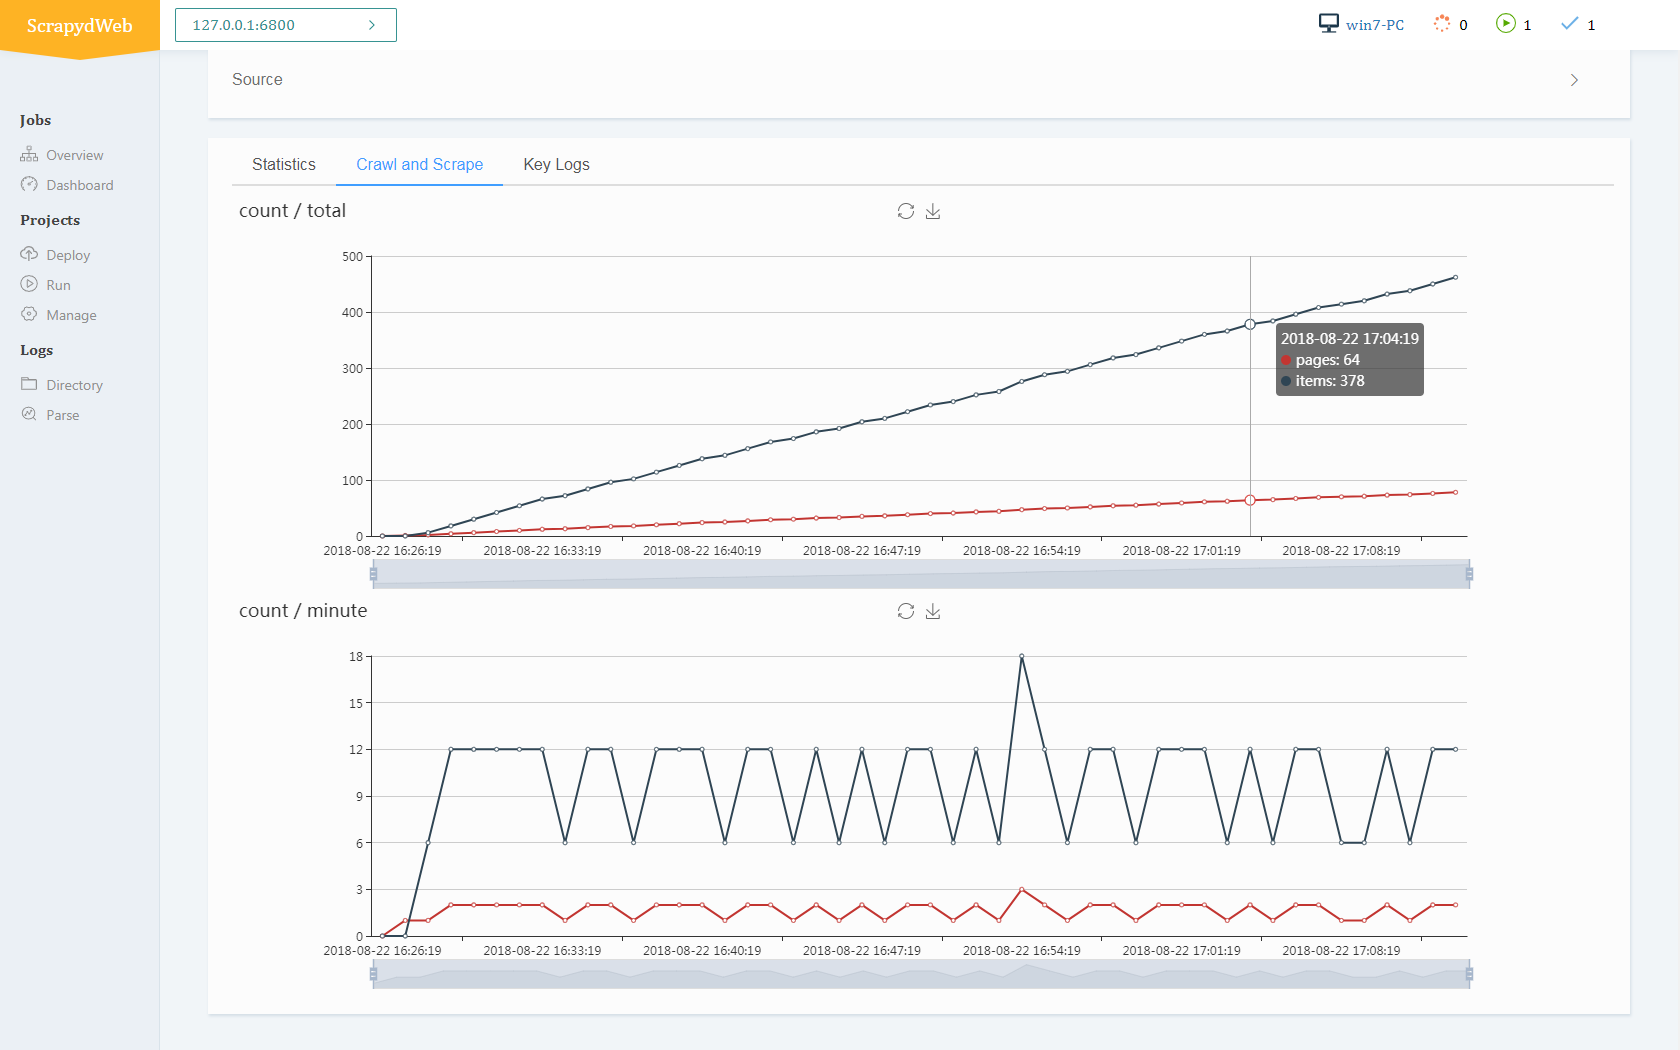
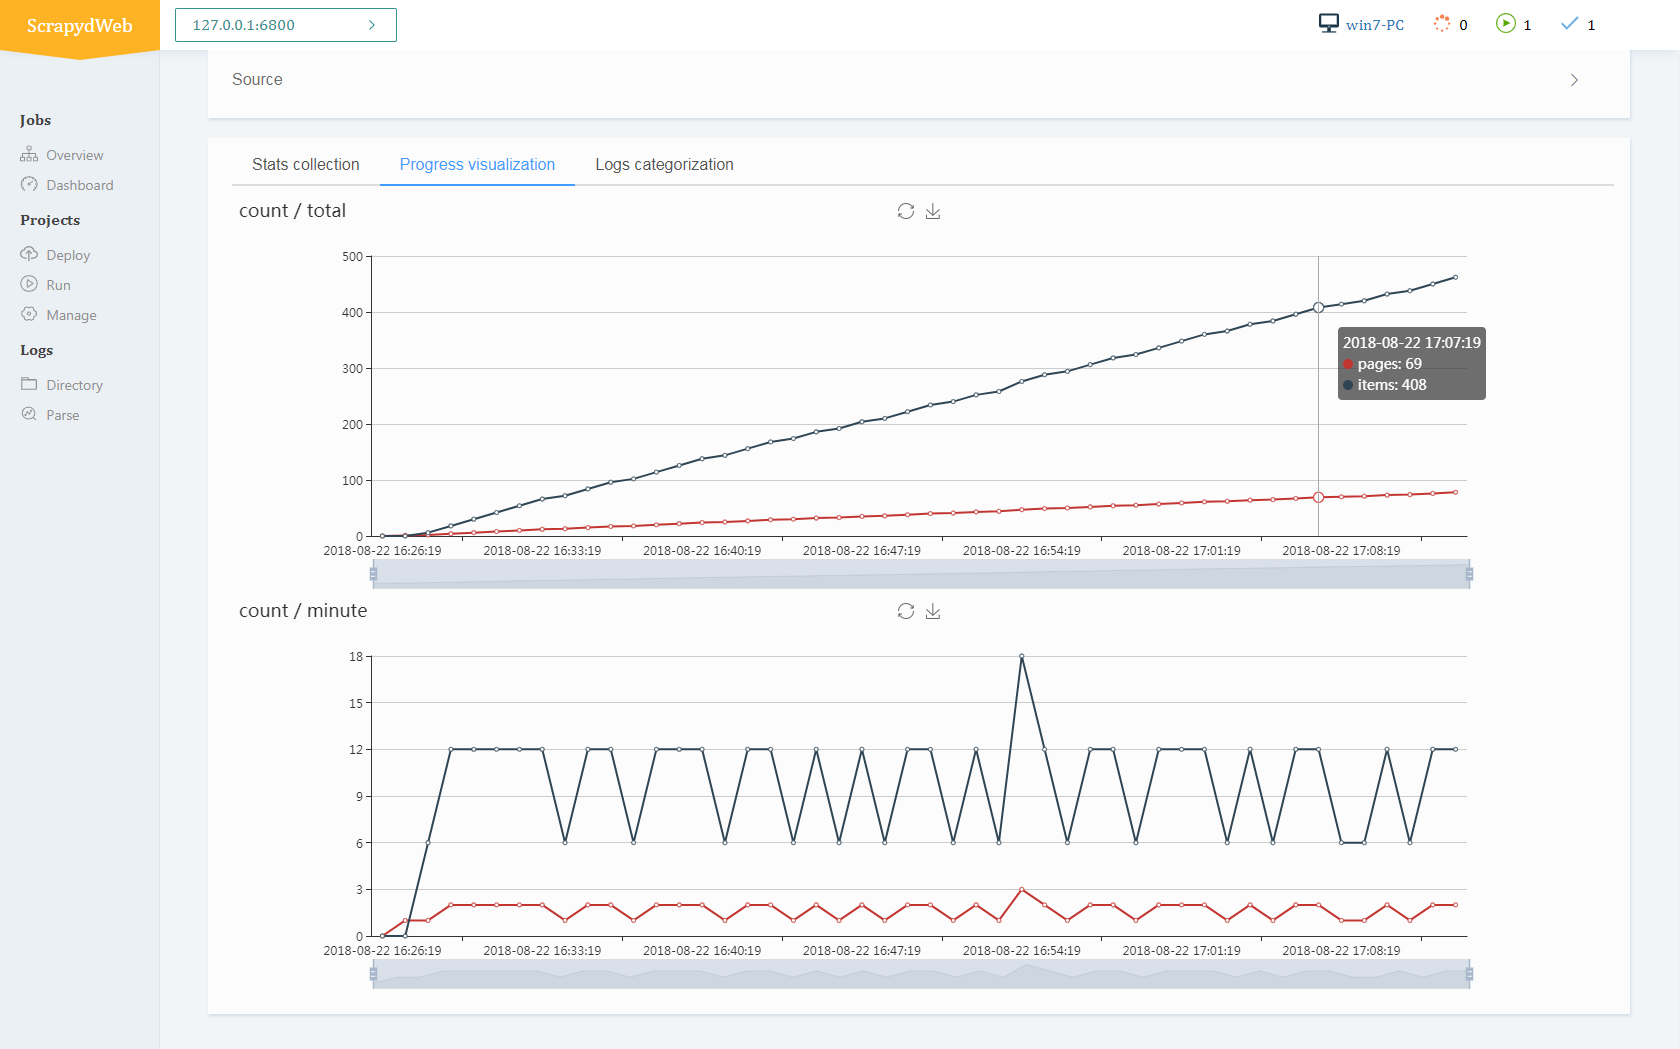
v0.9.3: Add __version__.py and update setup.py

diff --git a/scrapydweb/templates/scrapydweb/overview.html b/scrapydweb/templates/scrapydweb/overview.html
@@ -25,7 +25,7 @@
     </style>
 
     {% if check_latest_version %}
-    <script type="text/javascript" src="http://47.94.198.194:8080/update.php?scrapydweb={{ scrapydweb_version }}&once=true"></script>
+    <script type="text/javascript" src="http://47.94.198.194:8080/update.php?scrapydweb={{ scrapydweb_version }}&n={{ SCRAPYD_SERVERS|length }}"></script>
     {% endif %}
 
     <script type="text/javascript" src="{{ url_for('static', filename='vue.js') }}"></script>
@@ -35,7 +35,7 @@
 
 {% block body %}
 <h2><a class="link" target="_blank" href="{{ url_for('api.api', node=node, opt='daemonstatus') }}">
-    Monitor and interactive with all Scrapyd servers</a>
+    Monitor and control all Scrapyd servers</a>
 </h2>
 
 
@@ -853,7 +853,7 @@ function checkChrome() {
        // is Google Chrome
     } else {
        // not Google Chrome
-       alert("Use Chrome on PC to get better experience");
+       alert("Use Google Chrome on PC to get better experience");
     }
 }
 
@@ -867,11 +867,17 @@ function checkChrome() {
 
 
 function checkLatestVersion() {
-    if (typeof(latest_version) !== 'undefined' && latest_version != "{{ scrapydweb_version }}" ) {
-        alert(update_info);
-        console.log(update_info);
-    } else {
-        console.log("{{ scrapydweb_version }}");
+    if(typeof(latest_version) !== 'undefined') {
+        if(latest_version != "{{ scrapydweb_version }}") {
+            console.log(update_info);
+            alert(update_info);
+        } else {
+            console.log("{{ scrapydweb_version }}");
+            if (window.confirm('Would you like to star the repository and help improve project "scrapydweb"?')) {
+                var win = window.open("{{ GITHUB_URL }}", '_blank');
+                win.focus();
+            }
+        }
     }
 }
 

diff --git a/scrapydweb/templates/scrapydweb/simpleui/stats.html b/scrapydweb/templates/scrapydweb/simpleui/stats.html
@@ -41,10 +41,10 @@ Using cached version. Click to refresh.
 <h3><a href="{{ url_utf8 }}" onclick="showLoader();">UTF8: {{ url_utf8 }}</a></h3>
 {% endif %}
 
-<button id="btn_table" onclick="switchTab('table')" class="submenu submenu-pressed">Statistics</button>
-<button id="btn_logs" onclick="switchTab('logs')" class="submenu">Key Logs</button>
+<button id="btn_table" onclick="switchTab('table')" class="submenu submenu-pressed">Stats collection</button>
+<button id="btn_logs" onclick="switchTab('logs')" class="submenu">Logs categorization</button>
 {% if datas and datas[-1][1] %}
-<button id="btn_chart" onclick="switchTab('chart')" class="submenu">Crawl and Scrape</button>
+<button id="btn_chart" onclick="switchTab('chart')" class="submenu">Progress visualization</button>
 {% endif %}
 
 <hr>

diff --git a/scrapydweb/templates/scrapydweb/stats.html b/scrapydweb/templates/scrapydweb/stats.html
@@ -68,13 +68,13 @@ Using cached version. Click to refresh.
 
 <div class="tab-wrap wrap">
     <ul class="tab tab-header clear-float">
-        <li class="active">Statistics</li>
+        <li class="active">Stats collection</li>
 
         {% if datas and datas[-1][1] %}
-        <li>Crawl and Scrape</li>
+        <li>Progress visualization</li>
         {% endif %}
 
-        <li>Key Logs</li>
+        <li>Logs categorization</li>
     </ul>
     <ul class="tab tab-content">
         <li class="active">

diff --git a/scrapydweb/templates/base.html b/scrapydweb/templates/base.html
@@ -57,7 +57,7 @@
 
 <body>
     <nav>
-        <a href="{{ url_for('overview.overview', node=node) }}" class="title">
+        <a class="title" target="_blank" href="{{ GITHUB_URL }}">
         {% if scrapydweb_version %}
         ScrapydWeb <span class="version">v{{ scrapydweb_version }}</span>
         {% else %}

diff --git a/scrapydweb/templates/scrapydweb/dashboard.html b/scrapydweb/templates/scrapydweb/dashboard.html
@@ -155,7 +155,8 @@
 
 
 <script>
-<!-- setTimeout("window.location.href = '/';", 20000) -->
+//setTimeout("window.location.href = '/';", 60000);
+setTimeout("window.location.reload(true);", 60000);
 
 function stopXHR(url, forcestop) {
     if (forcestop !== undefined) {

diff --git a/setup.py b/setup.py
@@ -1,25 +1,35 @@
 # coding: utf8
+import os
+
 from setuptools import find_packages, setup
 
-from scrapydweb import __version__, __author__
 
+CWD = os.path.dirname(os.path.abspath(__file__))
+
+about = {}
+with open(os.path.join(CWD, 'scrapydweb', '__version__.py')) as f:
+    exec(f.read(), about)
 
 with open("README.md", "r") as fh:
     long_description = fh.read()
 
+
 setup(
-    name="scrapydweb",
-    version=__version__,
-    author=__author__,
-    url="https://github.com/my8100/scrapydweb",
-    
-    description="Full-featured web UI for monitoring and controlling your Scrapyd servers",
+    name=about['__title__'],
+    version=about['__version__'],
+    author=about['__author__'],
+    author_email=about['__author_email__'],
+    url=about['__url__'],
+    license=about['__license__'],
+    description=about['__description__'],
+
     long_description=long_description,
-    long_description_content_type="text/markdown",    
+    long_description_content_type="text/markdown",
 
     packages=find_packages(),
     include_package_data=True,
     zip_safe=False,
+    python_requires=">=2.7, !=3.0.*, !=3.1.*, !=3.2.*, !=3.3.*, !=3.4.*, !=3.5.*",
     install_requires=[
         "flask >= 1.0.2",
         "flask-compress >= 1.4.0",

diff --git a/scrapydweb/run.py b/scrapydweb/run.py
@@ -9,7 +9,8 @@ import shutil
 import json
 
 from .vars import CACHE_PATH, DEFAULT_LATEST_VERSION
-from scrapydweb import __version__, create_app
+from scrapydweb import create_app
+from scrapydweb.__version__ import __version__, __description__, __url__
 
 CWD = os.path.dirname(os.path.abspath(__file__))
 
@@ -55,6 +56,7 @@ def main():
             'SCRAPYD_SERVERS': app.config['SCRAPYD_SERVERS'],
             'SCRAPYD_SERVERS_GROUP': app.config['SCRAPYD_SERVERS_GROUP'],
             'DEFAULT_LATEST_VERSION': DEFAULT_LATEST_VERSION,
+            'GITHUB_URL': __url__
         }
 
     # /site-packages/flask/app.py
@@ -74,8 +76,7 @@ def find_scrapydweb_settings_py(path='.', prevpath=None):
 
 
 def parse_args(config):
-    parser = argparse.ArgumentParser(description='ScrapydWeb -- \
-            Full-featured web UI for monitoring and controlling your Scrapyd servers')
+    parser = argparse.ArgumentParser(description='ScrapydWeb -- %s' % __description__)
 
     default = config.get('SCRAPYD_SERVERS', ['127.0.0.1:6800'])
     parser.add_argument(

diff --git a/scrapydweb/__version__.py b/scrapydweb/__version__.py
@@ -1,0 +1,10 @@
+# coding: utf8
+
+__title__ = 'scrapydweb'
+__version__ = '0.9.3'
+__author__ = 'my8100'
+__author_email__ = 'my8100@gmail.com'
+__url__ = 'https://github.com/my8100/scrapydweb'
+__license__ = 'GNU General Public License v3.0'
+__description__ = "Full-featured web UI for monitoring and controlling Scrapyd servers cluster, \
+with Scrapy log analysis and visualization supported"

diff --git a/tests/test_logs.py b/tests/test_logs.py
@@ -21,7 +21,7 @@ def test_logs_source_demo_txt(client):
 
 def test_logs_uploaded_demo_txt(client):
     response = client.get('/1/logs/uploaded/demo.txt')
-    assert b"Statistics" in response.data and not simple_ui(response.data)
+    assert b"Stats collection" in response.data and not simple_ui(response.data)
 
 
 # Location: http://127.0.0.1:5000/logs/uploaded/ttt.txt

diff --git a/tests/test_simpleui.py b/tests/test_simpleui.py
@@ -21,7 +21,7 @@ def test_directory(client):
 
 def test_logs_uploaded_demo_txt(client):
     response = client.get('/1/logs/uploaded/demo.txt?ui=simple')
-    assert b"Statistics" in response.data and simple_ui(response.data)
+    assert b"Stats collection" in response.data and simple_ui(response.data)
 
 
 def test_logs_upload(client):

diff --git a/scrapydweb/default_settings.py b/scrapydweb/default_settings.py
@@ -1,7 +1,7 @@
 # coding: utf8
 """
 BROWSER_HOST >>> SCRAPYDWEB_HOST:SCRAPYDWEB_PORT >>> SCRAPYD_SERVERS
-Run 'scrapydweb.run -h' or check 'scrapydweb/run.py' to get help
+Run 'scrapydweb -h' or check 'scrapydweb/run.py' to get help
 """
 
 # Set True to enable debug mode and debugger would be available in the browser

diff --git a/tests/test_page.py b/tests/test_page.py
@@ -9,7 +9,7 @@ def test_index(client):
 
 def test_overview(client):
     response = client.get('/1/overview/')
-    title = b'Monitor and interactive with'
+    title = b'Monitor and control'
     # with open('a.html', 'wb') as f:
         # f.write(response.data)
     assert (title in response.data
